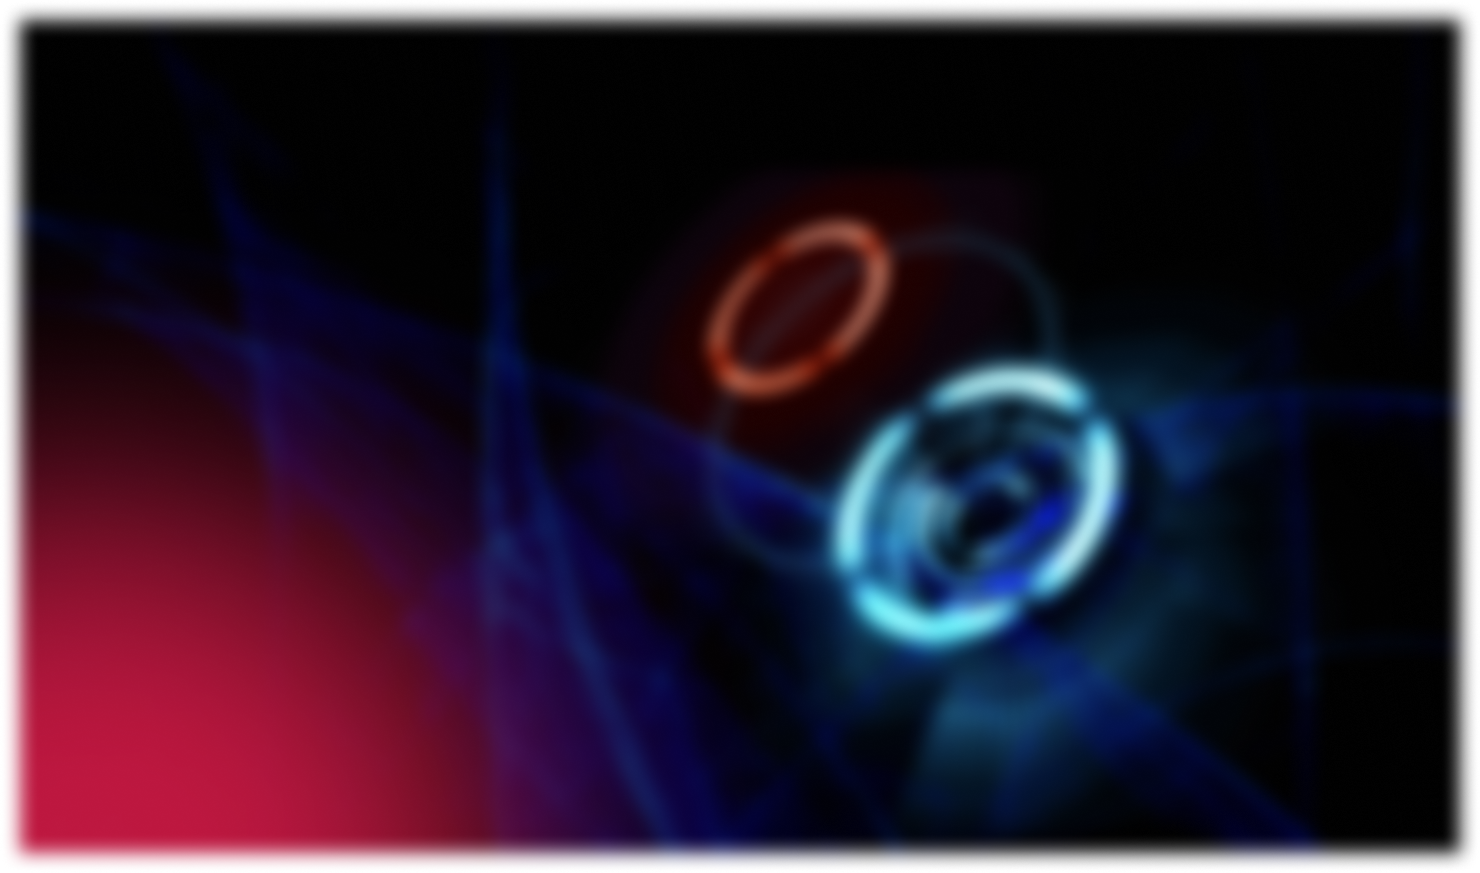
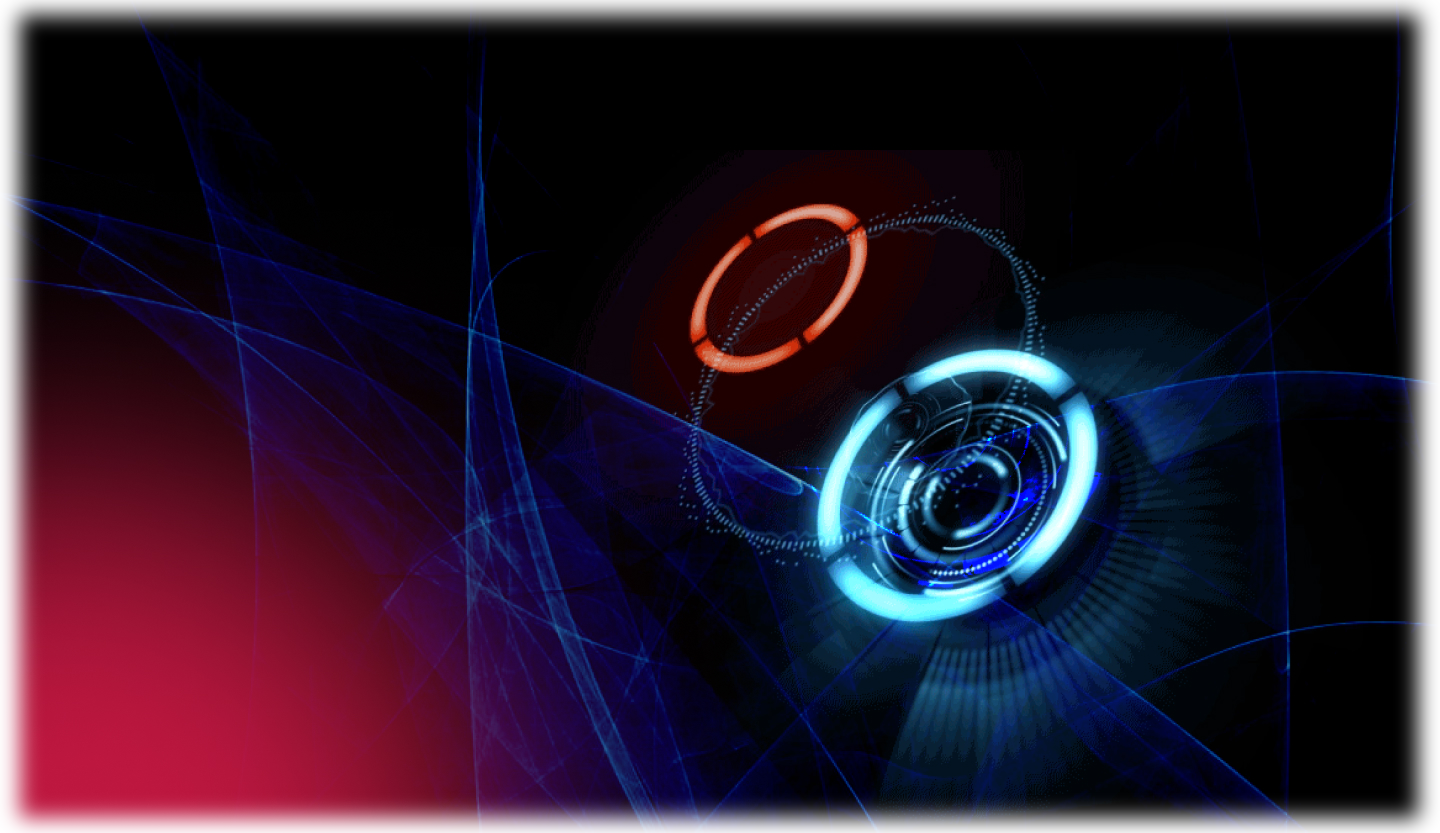
added changes

diff --git a/src/components/Teams.js b/src/components/Teams.js
@@ -15,7 +15,7 @@ function Team_Content () {
                     </div>
                     <h1 className='lg:text-4xl text-3xl font-Inter text-center font-bold mb-4 lg:mb-6 tracking-wider text-white leading-10'>The Team</h1>
                     <p className='text-base font-Poppins w-full mb-6 text-cente tracking-wide text-white'>There is a reason why cryptocurrencies are in the trillions of dollars. With the emergence of a global, decentralized ledger and computing system—which continues to grow faster and more powerful—business is being disrupted. Trillions of dollars in transaction fees from traditional banking are being threatened by blockchain technology. Countless industries are at risk of being undercut by less-expensive, faster, and more secure solutions. Whether you are an established business looking to secure your company’s foothold or an upcoming organization looking to break into the market, we have the solution for you.</p>
-                    <button className='bg-[#BE173F] lg:w-[60%] lg:mb-6 text-white text-sm lg:text-lg font-Poppins px-6 lg:px-10 py-4 font-bold lg:py-4 rounded-lg' >Know more about our team </button>
+                    <button className='bg-[#BE173F] hover:opacity-80 lg:w-[60%] lg:mb-6 text-white text-sm lg:text-lg font-Poppins px-6 lg:px-10 py-4 font-bold lg:py-4 rounded-lg'><a href=' https://www.linkedin.com/in/djrthree/' target="_blank">Know more about our team </a></button>
                     <div className='w-[100%] justify-start mt-8 items-start flex py-2'>
                     </div>
         </div>
@@ -47,7 +47,7 @@ function Twos({ img, content, pos }) {
 
 function Review ({img, title, reviewer, content}) {
     return (
-        <div className='w-full flex-col lg:flex-row flex justify-between h-full bg-cover bg-contain px-6 lg:px-12 py-12 lg:py-16'  style={{backgroundImage: `url(${bg})`}}>
+        <div className='w-full flex-col lg:flex-row flex justify-between bg-cover bg-contain px-6 lg:px-12 py-12 lg:py-16'  style={{backgroundImage: `url(${bg})`}}>
             <div className='lg:basis-[32%] flex justify-self-center items-center  mb-4 lg:mb-0 lg:mr-10'>
                 <img src={img} className='bg-cover w-full' />
             </div> 
@@ -67,7 +67,7 @@ function Review ({img, title, reviewer, content}) {
 
 function Teams() {
   return (
-      <div className='lg:mb-20 w-full' id='team'>
+      <div className='lg:mb-20 ' id='team'>
           <div className='lg:container w-full  mx-auto'>
                 <Twos  img="/Imgs/team.png" content={<Team_Content/>} />
           </div> 

diff --git a/src/components/Services.js b/src/components/Services.js
@@ -1,6 +1,6 @@
 import React from 'react';
 import { Fade } from 'react-reveal';
-import bg from "../images/section.png";
+import bg from "../images/section2.png";
 import { services } from '../utitlities/revolution_util';
 import Benefits from './Benefits';
 import Contact_us from './Contact_us';
@@ -23,9 +23,9 @@ function EachService ({pos, title, count, content, img, color}) {
 
 function Services() {
   return (
-      <div className="lg:container mx-auto w-full mt-12" id='services'>
+      <div className="mx-auto w-full mt-12" id='services'>
           <div className='pt-10 flex flex-col items-center justify-center' style={{backgroundImage: `url(${bg})`}}>
-                <div className='flex flex-col gap-y-4'>
+                <div className='flex flex-col md:w-[90%] mx-auto gap-y-4'>
                     <div className="flex flex-col md:flex-row gap-y-3 uppercase gap-x-2 text-center items-center justify-center">
                     <div className="w-10 h-[4px] bg-[#eb6282]"></div>
                         <span className="text-white  capitalize text-[#BE173F] text-lg font-normal text-center  font-Poppins">
@@ -35,7 +35,7 @@ function Services() {
                     <h1 className='md:text-4xl text-3xl font-Poppins text-center font-bold tracking-wider text-white leading-10'>Our Services </h1>
                     <p className='text-base font-Poppins px-4 md:px-0 text-center tracking-wide text-white'>We provide full-package solution to get your business up and running on the blockchain</p>
                 </div>
-                <div className='grid relative justify-center items-center md:items-end grid-cols-1 mt-12 md:mt-24 px-8 gap-x-8 lg:grid-cols-4 md:grid-cols-2'>
+                <div className='grid relative md:w-[94%] mx-auto justify-center items-center md:items-end grid-cols-1 mt-12 md:mt-24 px-8 gap-x-8 lg:grid-cols-4 md:grid-cols-2'>
                     {
                         services.map((service, index) => (
                             <EachService key={index} count={index} color={service.color} pos={service.pos} img={service.img} title={service.title} content={service.content} />

diff --git a/src/components/Benefits.js b/src/components/Benefits.js
@@ -45,7 +45,7 @@ function Benefit_content () {
 
 function Twos({ img, content, pos }) {
     return (
-      <div className="lg:py-4 w-full my-5 lg:my-2">
+      <div className="lg:py-4 lg:w-[90%] mx-auto my-5 lg:my-2">
         <div
           className={`flex ${
             pos ? 'lg:flex-row' : 'lg:flex-row-reverse'
@@ -67,7 +67,7 @@ function Twos({ img, content, pos }) {
 
 function Benefits() {
   return (
-    <div className='lg:container w-full flex  lg:items-center lg:px-12 px-6 py-5 lg:py-12 lg:justify-center flex-col mx-auto bg-no-repeat bg-cover' style={{backgroundImage: `url(${bg})`}}>
+    <div className='w-full flex  lg:items-center lg:px-12 px-6 py-5 lg:py-12 lg:justify-center flex-col mx-auto bg-no-repeat bg-cover' style={{backgroundImage: `url(${bg})`}}>
     <div className='flex lg:mb-2 mb-8 flex-col gap-y-1'>
         <div className="flex gap-x-4 text-center items-center md:justify-center">
             <div className="w-10 h-[4px] bg-[#eb6282]"></div>

diff --git a/src/components/Hero.js b/src/components/Hero.js
@@ -5,9 +5,9 @@ import { Zoom } from 'react-reveal';
 
 function Hero() {
   return (
-    <div className='lg:container mx-auto' style={{ height: "calc(100vh - 7rem)"}}>
-             <div style={{backgroundImage: `url(${bg})`}} className='mb-6 w-[100%] h-full md:container mx-auto bg-no-repeat bg-cover'>
-          <div className='py-12 mx-auto items-center w-full justify-center h-full  md:justify-between flex'>
+    <div className='mx-auto' style={{ height: "calc(100vh - 7rem)"}}>
+             <div style={{backgroundImage: `url(${bg})`}} className='mb-6 w-[100%] h-full  mx-auto bg-no-repeat bg-cover'>
+          <div className='py-12 mx-auto items-center w-full justify-center md:w-[85%] h-full  md:justify-between flex'>
             <Zoom delay={1000}>
             <div className='flex md:text-left text-center flex-col mb-10 md:mb-0 items-center md:items-start  flex-1 gap-y-4'>
                 <div className="flex uppercase gap-x-2 items-center">

diff --git a/src/components/Nav.js b/src/components/Nav.js
@@ -17,8 +17,8 @@ function Nav() {
         window.addEventListener('scroll', changeNav);
     }, []);
   return (
-    <nav className={`sticky h-[7rem] top-0 ${scrollNav ? "bg-black" : "bg-transparent"}   lg:container z-50 border-gray-200`}>
-        <div className='w-[100%] h-full lg:container  sm:px-4 py-6 mx-auto'>
+    <nav className={`sticky h-[7rem] top-0 ${scrollNav ? "bg-black" : "bg-transparent"}   z-50 border-gray-200`}>
+        <div className='w-[90%] h-full   sm:px-4 py-6 mx-auto'>
         <div className=" flex flex-wrap bg-black justify-between items-center">
          <Logo />
         <button  data-collapse-toggle="mobile-menu" type="button" className="inline-flex items-center p-2 pr-2 mr-4  ml-3 text-xl text-white rounded-lg md:hidden  focus:outline-none focus:ring-2 focus:ring-gray-100 dark:text-gray-400 dark:hover:bg-gray-700 dark:focus:ring-gray-600" aria-controls="mobile-menu-2" aria-expanded="false">

diff --git a/src/components/Footer.js b/src/components/Footer.js
@@ -4,8 +4,8 @@ import { AiFillGithub } from 'react-icons/ai';
 
 function Footer() {
   return (
-      <div className='lg:container mx-auto' id='footer'>
-        <div className='bg-[#BE173F] flex flex-col lg:flex-row gap-y-10 lg:gap-y-0 justify-start lg:items-center lg:justify-between py-10 lg:py-12 px-4 lg:px-10'>
+      <div className=' mx-auto' id='footer'>
+        <div className='bg-[#BE173F] flex flex-col lg:flex-row gap-y-10 lg:gap-y-0 justify-start lg:items-end lg:justify-between py-8 lg:py-5 px-4 lg:px-10'>
             <Logo footer={true} />
             <span className='text-white text-left lg:text-center text-base font-Poppins'>Copyright © 2021 Blockchain Solutions LLC. All Rights Reserved</span>
             <div className='flex gap-x-3'>

diff --git a/src/components/Revolution.js b/src/components/Revolution.js
@@ -19,7 +19,7 @@ function OneService ({title, content, count, img, dat}) {
 function Revolution() {
   return (
       <div className='bg-cover bg-no-repeat' style={{backgroundImage: `url(${bg})`}}>
-        <div className='flex  md:mt-10 mb-2 flex-col gap-y-4'>
+        <div className='flex lg:w-[80%] mx-auto md:mt-10 mb-2 flex-col gap-y-4'>
                 <div className="flex flex-col md:flex-row gap-y-2 md:gap-y-0 uppercase gap-x-2 text-center items-center justify-center">
                 <div className="w-10 h-[4px] bg-[#eb6282]"></div>
                     <span className="text-white  capitalize text-[#BE173F] text-lg font-normal text-center  font-Poppins">

diff --git a/src/pages/Home.js b/src/pages/Home.js
@@ -30,7 +30,7 @@ function Home() {
   return (
       <div className='bg-black w-full'>
           <Nav />
-          <div className={`fixed bottom-10 ${scroll ? "flex" : "hidden"} z-20 hover:cursor-pointer items-center rounded-full bg-[#BE173F] p-3 md:p-4 right-4 md:right-6`}>
+          <div className={`fixed bottom-28 ${scroll ? "flex" : "hidden"} z-20 hover:cursor-pointer items-center rounded-full bg-[#BE173F] p-3 md:p-4 right-4 md:right-6`}>
               <AiOutlineArrowUp onClick={scrollToTop} className='text-white font-bold text-xl' />
           </div>
          <div className='overflow-hidden'>

diff --git a/src/components/Contact.js b/src/components/Contact.js
@@ -50,7 +50,7 @@ function Contact() {
     setData(initialState)
   }
   return (
-      <div className='bg-black  lg:container my-24  w-full' id='contact'>
+      <div className='bg-black  my-24 lg:w-[90%] mx-auto' id='contact'>
           <div className='md:w-full mx-auto'>
             <div className='flex flex-col lg:flex-row items-center justify-between'>
                 <div className='lg:w-[42%] md:w-[90%] w-full px-4 md:px-0 mx-5 lg:mx-0 mb-10  mr-16 '> 

diff --git a/src/components/Contact_us.js b/src/components/Contact_us.js
@@ -44,7 +44,7 @@ function Phone_Content () {
 
 function Contact_us() {
   return (
-    <div className='container mx-auto z-5 bg-[rgb(32,32,47)] px-6 bg-no-repeat bg-cover' style={{backgroundImage: `url(${bg})`}}>
+    <div className=' mx-auto py-5 bg-[rgb(32,32,47)] px-6 bg-no-repeat bg-cover' style={{backgroundImage: `url(${bg})`}}>
         <Twos img="/Imgs/phone.svg" pos={true} content={<Phone_Content/>} />
     </div>
   )

diff --git a/src/utitlities/Twos.js b/src/utitlities/Twos.js
@@ -3,7 +3,7 @@ import { Zoom } from 'react-reveal';
 
 function Twos({ img, content, pos }) {
   return (
-    <div className="w-full my-2">
+    <div className="lg:w-[90%] mx-auto my-2">
       <div
         className={`flex ${
           pos ? 'lg:flex-row' : 'lg:flex-row-reverse'
